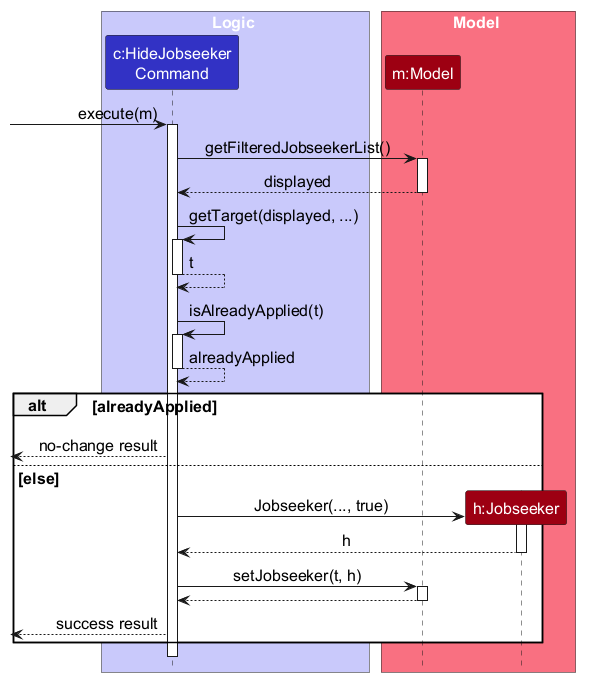
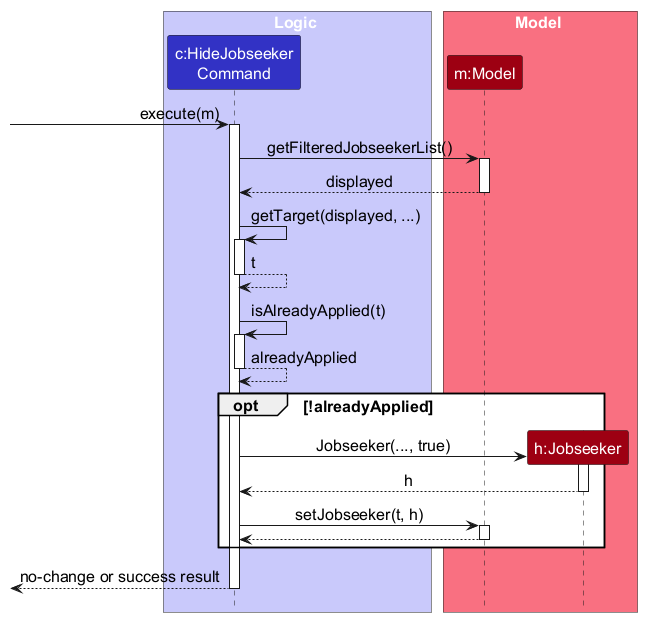
Fix UML diagrams

diff --git a/docs/DeveloperGuide.md b/docs/DeveloperGuide.md
@@ -135,7 +135,7 @@ The `Model` component,
 * stores a `UserPrefs` object that represents the user’s preferences (currently, just the GUI settings). This is exposed to the outside as a `ReadOnlyUserPrefs` object.
 * does not depend on any of the other three components (as the `Model` represents data entities of the domain, they should make sense on their own without depending on other components)
 
-<div markdown="span" class="alert alert-info">:information_source: **Note:** The alternative, arguably more object-oriented, design below keeps a unique list of tags in `AddressBook`, and each `Person` references tags from that list. This lets `AddressBook` maintain one `Tag` object per unique tag instead of each `Person` holding its own `Tag` objects.<br>
+<div markdown="span" class="alert alert-info">:information_source: **Note:** The alternative, arguably more object-oriented, design below keeps a unique list of tags in `AddressBook`, and each `Person` references tags from that list. This lets `AddressBook` maintain one `Tag` object per unique tag instead of each `Person` holding its own `Tag` objects. Only the classes relevant to tags are shown.<br>
 
 <img src="images/BetterModelClassDiagram.png" width="450" />
 
@@ -169,7 +169,7 @@ This section describes some noteworthy details on how certain features are imple
 
 The `editj` command updates a jobseeker identified by their one-based index in the currently displayed jobseeker list. `AddressBookParser` delegates to `EditCommandParser`, which creates an `EditJobseekerCommand` containing an `Index` and a defensive copy of an `EditJobseekerDescriptor`.
 
-The following sequence diagram focuses on successful execution of `editj 1 n/Alice r/Available`, after parsing has created the command. Local aliases `target` and `edited` represent the original and replacement jobseekers. Parsing, error paths, and storage details are explained below; `...` indicates omitted parameters.
+The following sequence diagram focuses on successful execution of `editj 1 n/Alice r/Available`. Local aliases `target` and `edited` represent the original and replacement jobseekers. Parsing, error paths, and storage details are explained below; `...` indicates omitted parameters.
 
 ![Sequence for editing a jobseeker](images/EditJobseekerSequenceDiagram.png)
 
@@ -371,7 +371,7 @@ All four commands follow the same flow:
 
 `getUpdatedTags()` returns `Optional.empty()` when there is no change. An optional containing an empty set instead means that all tags were successfully removed, so the contact must still be replaced.
 
-The first sequence diagram shows execution of `tagj 1 java` after parsing, assuming a valid displayed index. The self-calls to `getTarget()` and `getUpdatedTags()` use methods inherited from `AbstractTagCommand`. The `...` in `getTarget()` omits the invalid-index message, while the constructor's `...` represents unchanged non-tag fields. Result construction and message formatting are omitted.
+The first sequence diagram shows execution of `tagj 1 java`, assuming a valid displayed index. The self-calls to `getTarget()` and `getUpdatedTags()` use methods inherited from `AbstractTagCommand`. The `...` in `getTarget()` omits the invalid-index message, while the constructor's `...` represents unchanged non-tag fields. Result construction and message formatting are omitted.
 
 ![Jobseeker tag command execution](images/TagCommandExecutionDiagram.png)
 
